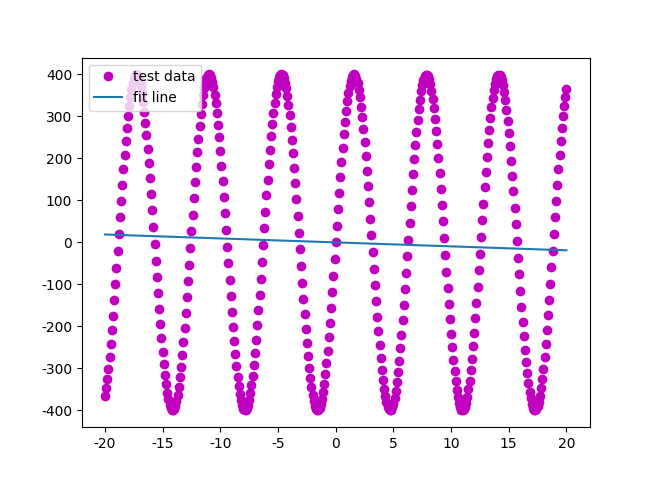
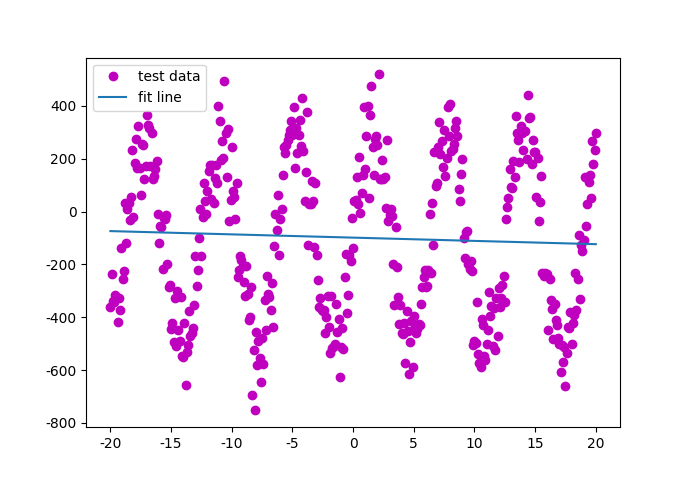
update article

diff --git a/doc/model分析/sin原型.md b/doc/model分析/sin原型.md
@@ -13,14 +13,32 @@ y = 400 * np.sin(x)
 看这张图发现什么问题没有？
 我们需要做拟合，是在一堆离散的点中找出一条最合适的平滑曲线，让它尽可能穿过更多的点。而这张图的数据点并不是离散的，而是近乎连续的。所以很容易找到一条，而且是唯一的一条曲线，可以完美穿过所有点。
 
+如果使用当前这张图去做拟合，使用下面任何一个模型都可以做出拟合曲线：
+
+```python
+w4 = weight_variable([1])
+b4 = bias_variable([1, hidden_dim + 1])  # 1*401
+y = w4 * x + b4
+# 或者
+w4 = weight_variable([hidden_dim + 1, hidden_dim + 1])  # 401*401
+b4 = bias_variable([1])  # 1*401
+y = tf.matmul(x, w4) + b4
+```
+
+所以为了避免这种情况的发生，我们要在生成曲线的所有点加上一些噪声，使其离散化：
+
+```python
+hidden_dim = 400
+x = tf.placeholder(tf.float32, [1, hidden_dim + 1])
+y = 400 * np.sin(x) + np.random.normal(-100, 100, x.shape)
+```
+
+![](./img/sin_data_new.png)
+
+当我们有了离散的点，下面就可以考虑找一个模型去生成一条尽可能穿过更多点的曲线。
 
 
-
-
-
-
-
-模型使用最简单的
+我们就尝试简单的线性模型
 
 ```python
 y = W*x+b
@@ -37,7 +55,7 @@ y = w4 * x + b4
 选择`W`为[1x1]矩阵，`b`也为[1x1]矩阵，可以想象，运行结果为一条直线
 ![](./img/sin_curve1.png)
 
-调整`b`的形状为[1x401]，发现结果拟合了
+调整`b`的形状为[1x401]，
 
 ```python
 w4 = weight_variable([1])
@@ -48,7 +66,7 @@ y = w4 * x + b4
 ![](./img/sin_curve2.png)
 
 
-把`W`的形状调整为[401x401]，把`b`调成[1x1]，发现生成的曲线也能拟合。
+把`W`的形状调整为[401x401]，把`b`调成[1x1]。
 
 ```python
 w4 = weight_variable([hidden_dim + 1, hidden_dim + 1])  # 401*401
